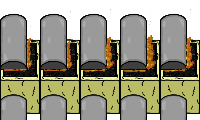
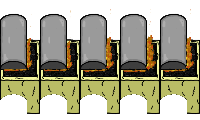
Ahora al pasar cerca del horno o del horno doble, sólo se marcará en amarillo el horno correspondiente, sin tomar un trozo del otro.

diff --git a/src/main/resources/static/src/theForge_Preloader.js b/src/main/resources/static/src/theForge_Preloader.js
@@ -182,7 +182,7 @@ sc_Preloader.preload = function()
     );
     this.load.spritesheet('horno doble', 
         '../assets/game/horno doble.png',
-        { frameWidth: 40, frameHeight: 120 }
+        { frameWidth: 40, frameHeight: 172 }
     );
     this.load.image('yunque', '../assets/game/yunque.png');
     this.load.image('yunque doble', '../assets/game/yunque doble.png');
